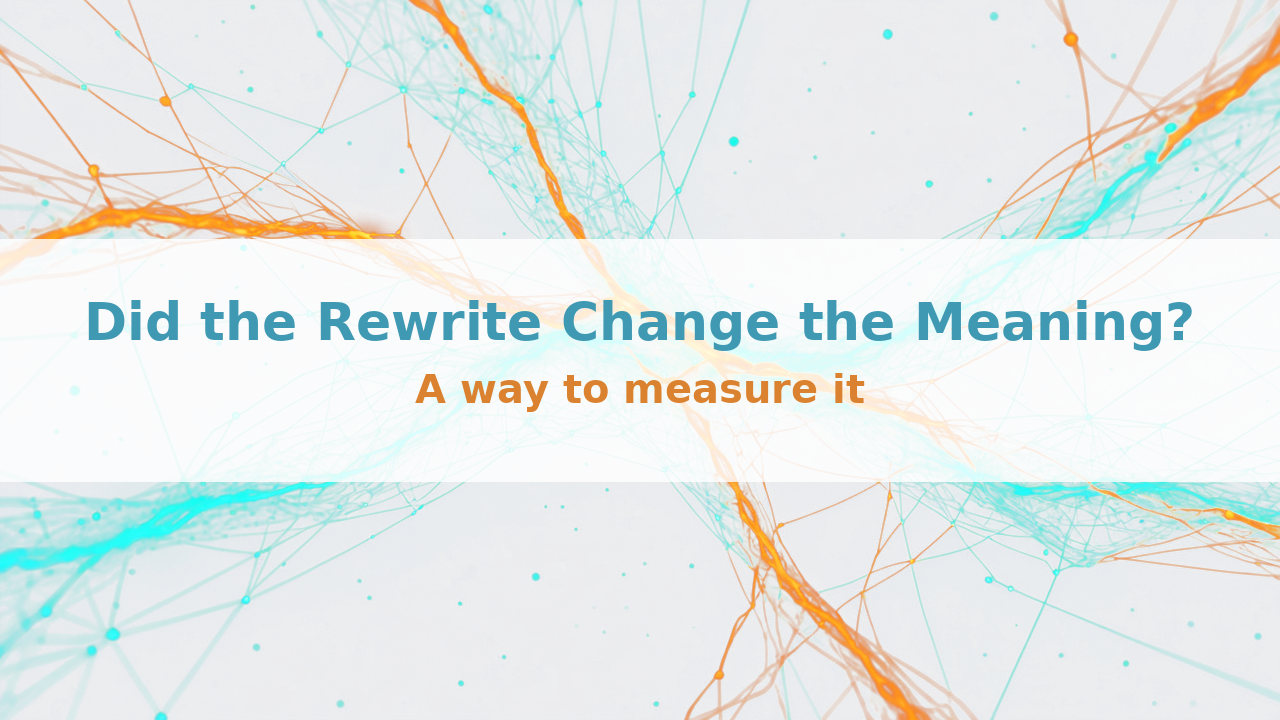
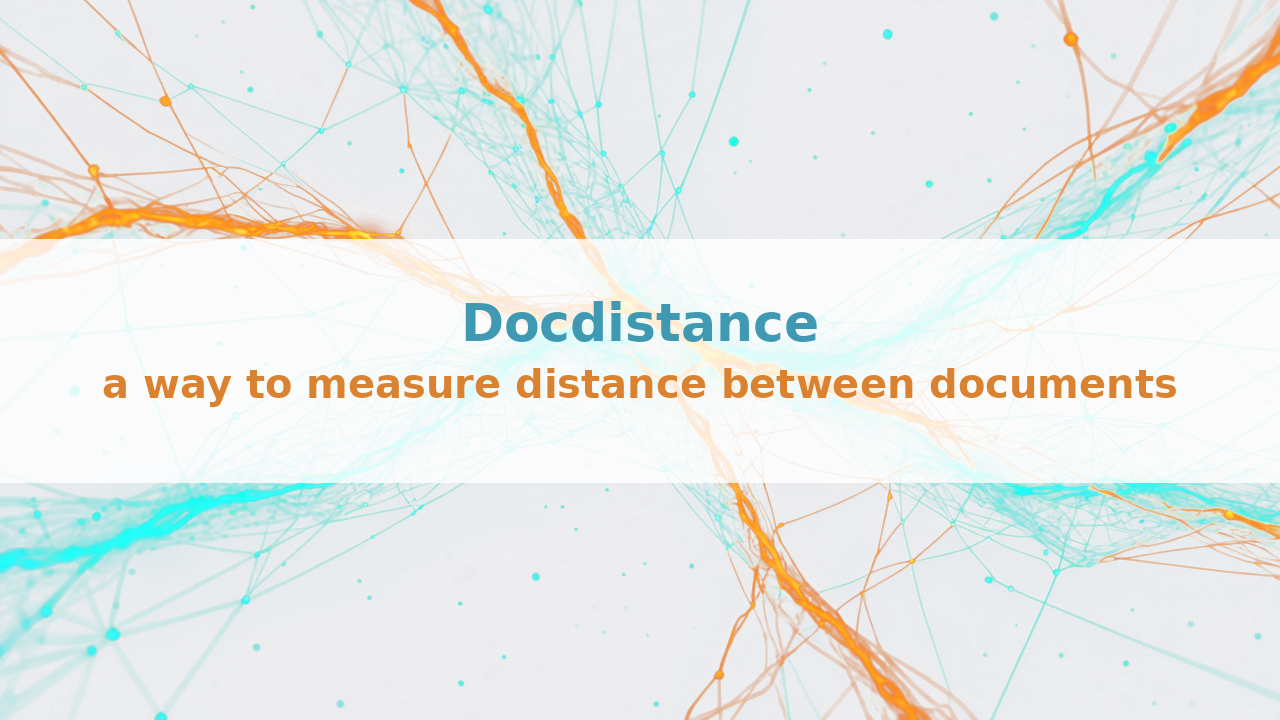
docs: mark the Medium article published and link it from the README
The article is live at
https://medium.com/towards-artificial-intelligence/docdistance-a-way-to-measure-distance-between-documents-229d4f762eaf

- stamp the article status, canonical URL and publication
- retitle to the published title and correct the byline; the draft
  working title and author had both diverged from the live piece
- re-rasterise the three titled covers, which carried the old title as
  burned-in pixels; geometry, type and band tones unchanged, logged as
  v3 in article-cover.txt
- add a "Read On | Medium" badge to the README badge row

Changed region(s): [[0.0625, 0.3972, 0.9375, 0.4889], [0.0625, 0.5194, 0.9375, 0.5806]]

diff --git a/.claude/JOURNAL.md b/.claude/JOURNAL.md
@@ -198,3 +198,6 @@ This journal tracks substantive work on documents, diagrams, and documentation c
 
 65. **Task - Pin ruff, absorb its widened defaults** (v1.1.3): CI lint went red on a docs-only commit because unpinned `uvx ruff` resolved 0.16.2, which widened the default rule set<br>
     **Result**: Nothing in `src/` had changed - `uvx ruff@0.15.0 check` passed on the same tree while 0.16.2 reported 7 errors, so the bar moved under the code rather than the code failing it. Pinned it: `RUFF_VERSION = 0.16.2` in the Makefile, threaded through both the `lint` and `format` targets, so no future release can silently redefine what passes. Absorbed the new rules rather than reverting to the old ruff - took both autofixes (`__all__` sorted in `__init__.py`, the quoted `Backend` annotation dropped in `cli.py`, inert there because the file already carries `from __future__ import annotations`) and added `ignore = ["B008"]` to `[tool.ruff.lint]` with the reason inline: `typer.Option` / `typer.Argument` in argument defaults is the documented Typer idiom for declaring CLI parameters, not the mutable-default bug B008 targets. `make lint` clean, formatter already agreed at 0.16.2.
+
+66. **Task - Mark the Medium article published, sync it to the live piece, add a README badge** (v1.1.3): Article went live on Medium under Towards Artificial Intelligence; stamped the repo copy and matched it to what actually published<br>
+    **Result**: Fetched the live page instead of inferring the title from the URL slug, which caught two drifts the `status: published` stamp would otherwise have frozen in: the published title is "Docdistance - a way to measure distance between documents", not the draft's "Did the Rewrite Change the Meaning? A Way to Measure It", and the byline is `Konrad "Stellars" Jelen`, not "Stellars Henson". Updated the frontmatter (`status`, `canonical_url`, `publication`, `title`, `author`) and the H1, then re-rasterised all three `*-titled.png` covers from the untitled bases - the old title sat in them as burned-in pixels no text search would find. Geometry and type unchanged from v2 (band y 239-482, #4099b3 52px over #da8230 40px, DejaVu Sans Bold, 0.62 dark / 0.80 light); logged as v3 in the append-only `article-cover.txt`. README gained a shields.io "Read On | Medium" badge on the canonical URL, before HUMES which stays last.

diff --git a/docs/medium/docdistance-measuring-document-drift.md b/docs/medium/docdistance-measuring-document-drift.md
@@ -1,15 +1,16 @@
 ---
-title: "Did the Rewrite Change the Meaning? A Way to Measure It"
+title: "Docdistance - a way to measure distance between documents"
 subtitle: "One cosine score tells you two documents differ. It does not tell you where, or by how much. Here is a method that tells you both."
-author: "Stellars Henson"
+author: 'Konrad "Stellars" Jelen'
 date: 2026-08-11
+status: published
 tags: ["Optimal Transport", "Wasserstein Distance", "NLP", "LLM Evaluation", "Embeddings", "Data Science"]
-canonical_url: ""
-publication: "Medium"
+canonical_url: "https://medium.com/towards-artificial-intelligence/docdistance-a-way-to-measure-distance-between-documents-229d4f762eaf"
+publication: "Medium - Towards Artificial Intelligence"
 read_time: "20 min read"
 ---
 
-# Did the Rewrite Change the Meaning? A Way to Measure It
+# Docdistance - a way to measure distance between documents
 
 ![Cover](images/article-cover-alpha-titled.png)
 

diff --git a/README.md b/README.md
@@ -4,6 +4,7 @@
 [![PyPI version](https://img.shields.io/pypi/v/docdistance.svg)](https://pypi.org/project/docdistance/)
 [![Total PyPI downloads](https://static.pepy.tech/badge/docdistance)](https://pepy.tech/project/docdistance)
 [![Built With copier-data-science](https://img.shields.io/badge/Built%20With-copier--data--science-019ca5?style=flat)](https://github.com/stellarshenson/copier-data-science)
+[![Read On Medium](https://img.shields.io/badge/Read%20On-Medium-000000?style=flat&logo=medium&logoColor=white)](https://medium.com/towards-artificial-intelligence/docdistance-a-way-to-measure-distance-between-documents-229d4f762eaf)
 [![Brought To You By HUMES Institute](https://img.shields.io/badge/Brought%20To%20You%20By-HUMES%20Institute-C19A6B?style=flat)](https://humes.pl/en/)
 
 ## Overview
